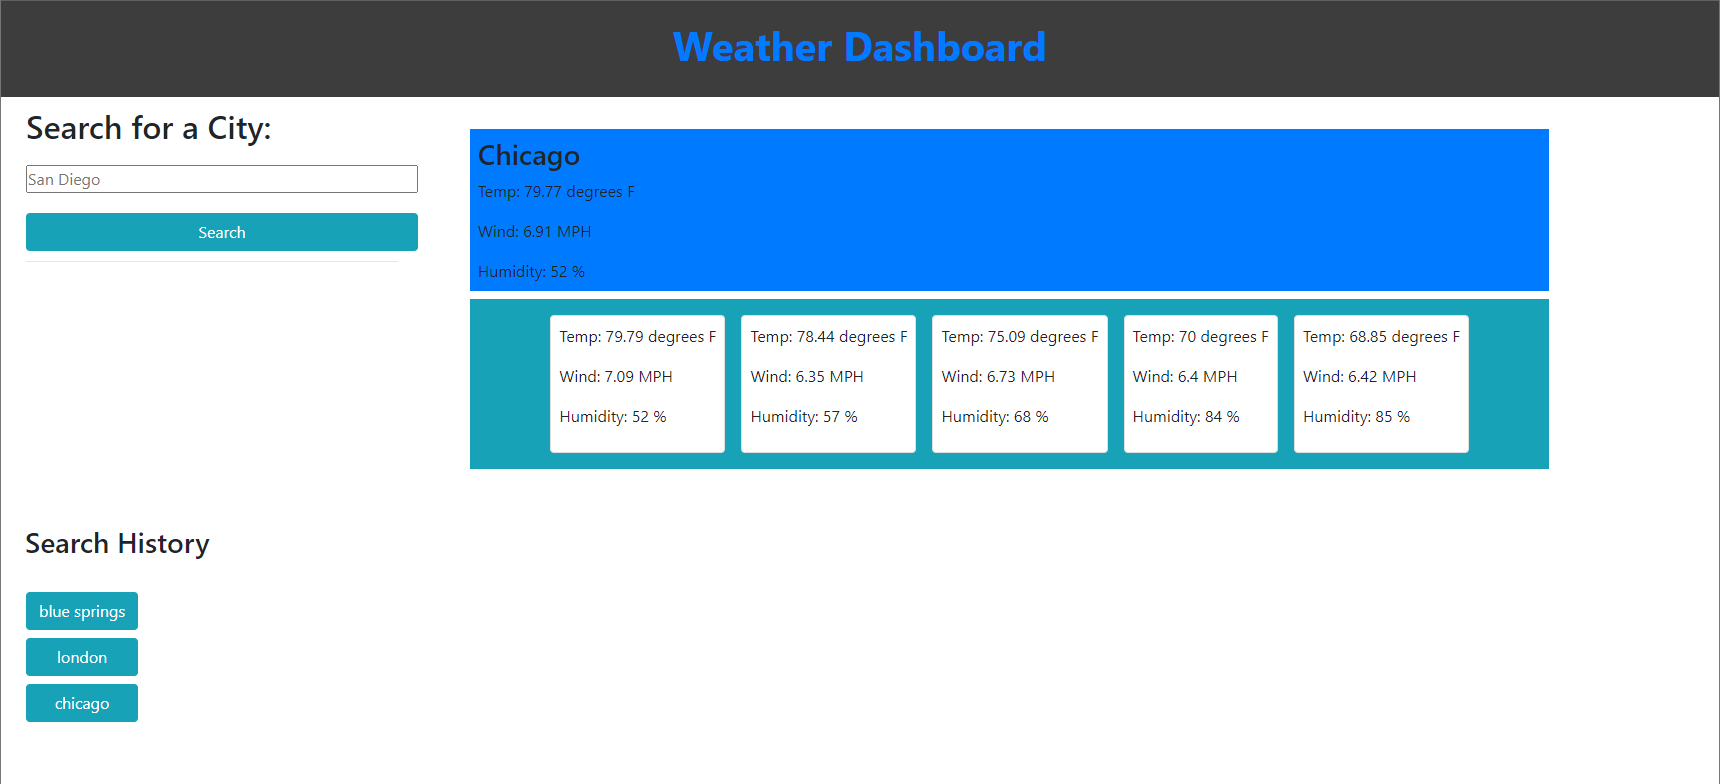
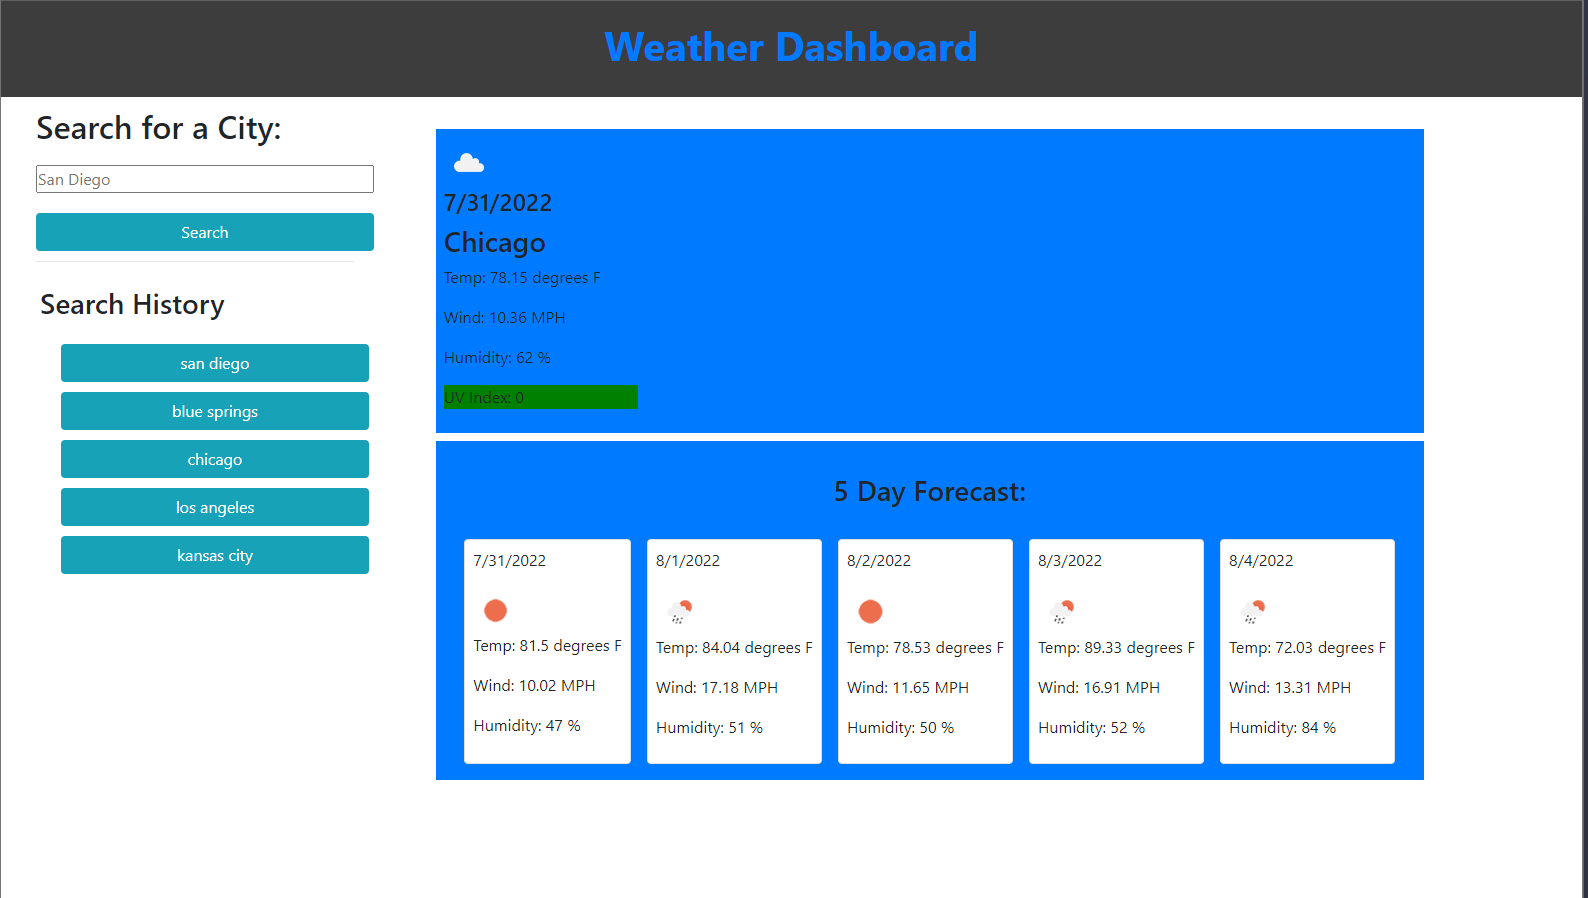
added screenshot to reflect UI and styling changes, JS script has more comments, UV Index is added

diff --git a/assets/js/script.js b/assets/js/script.js
@@ -42,6 +42,11 @@ cityBtn.addEventListener("click", function(event){
   
 // };
 
+//  for (var i = 0; i < saveTheWeather.length; i++) {
+//   function saveI(i) {
+
+  
+
 // Function that calls and then renders the weather from the weather API
 function renderTheWeather(city) {
   //Makes variables defined
@@ -207,10 +212,6 @@ function showExistingCities() {
 showExistingCities();
 
 
-//  for (var i = 0; i < saveTheWeather.length; i++) {
-//   function saveI(i) {
-
-  
 //   var button = document.createElement("button");
 //     button.classList.add("btn", "btn-info", "btn-block", "test");
 //     button.textContent = saveTheWeather[i];

diff --git a/index.html b/index.html
@@ -52,14 +52,7 @@
             </div>
         </div>
     </main>
-    <!-- <section class="row container-fluid col-3">
-            <h3 class="m-4">Search History</h3>
-    </section>
-
-    <section class="cities-searched-container row container-fluid col-3"> 
-        <div id="cities-searched-list">
-        </div>      
-    </section> -->
+   
 
 
 
